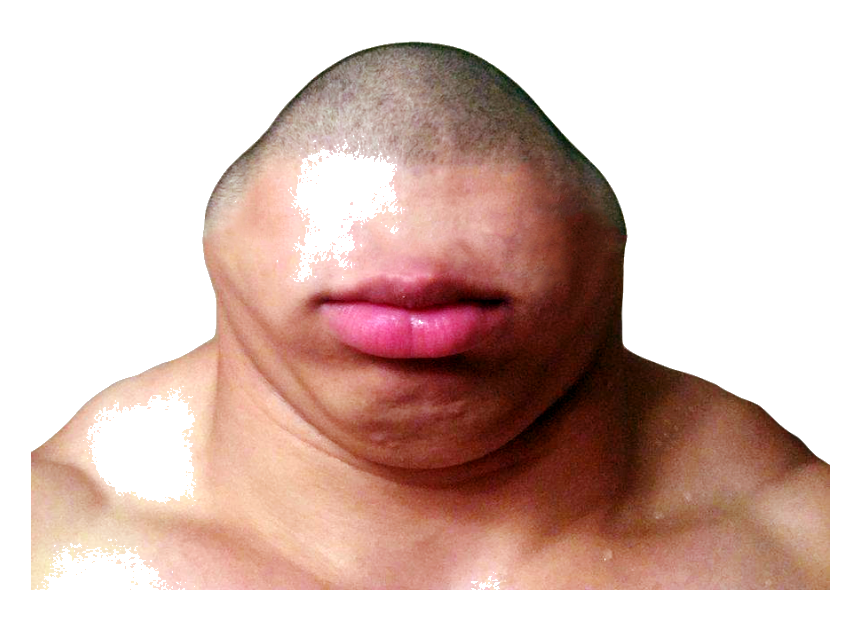
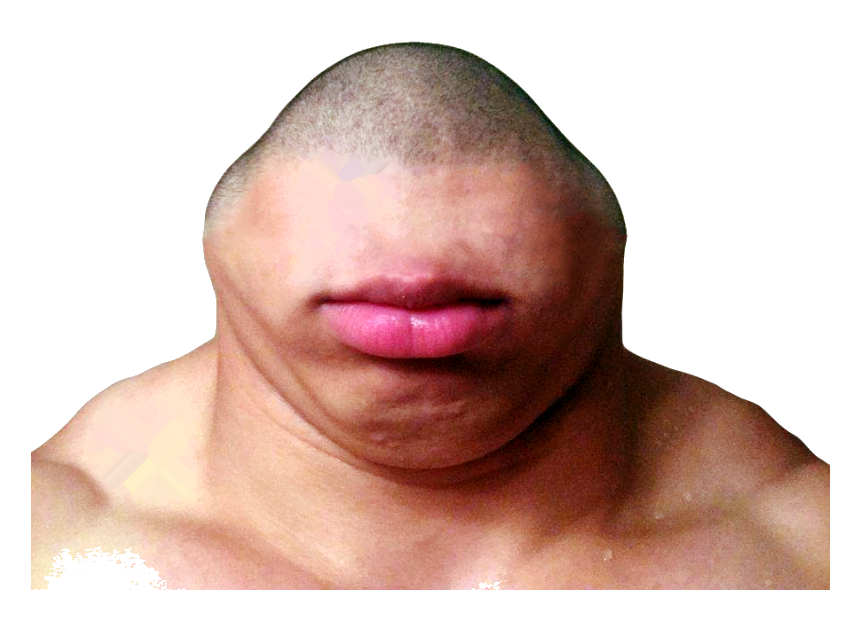
fix(render): fix Option A shorts headroom framing, eliminate combat dead zone, prevent text false positives, and repair corrupted thumbnail assets

Changed region(s): [[0.3326, 0.2108, 0.4837, 0.4517], [0.0907, 0.6022, 0.2419, 0.813]]

diff --git a/Services/WebcamDetector.py b/Services/WebcamDetector.py
@@ -63,10 +63,18 @@ CASCADE_CANDIDATE_PATHS = [
     "/usr/share/opencv/haarcascades/haarcascade_profileface.xml",
 ]
 
+EYE_CASCADE_CANDIDATE_PATHS = [
+    "/usr/share/opencv4/haarcascades/haarcascade_eye.xml",
+    "/usr/share/opencv4/haarcascades/haarcascade_eye_tree_eyeglasses.xml",
+    "/usr/share/opencv/haarcascades/haarcascade_eye.xml",
+    "/usr/share/opencv/haarcascades/haarcascade_eye_tree_eyeglasses.xml",
+]
+
 def has_skin_tones(bgr_crop):
     """
     Check if a candidate crop has realistic human skin tones.
-    Prevents false triggers on text, donation goals, in-game foliage, and HUD graphics.
+    Combines YCrCb and HSV color spaces to strictly eliminate false triggers
+    on text, donation goals, in-game rocks, grass, and HUD graphics.
     """
     if bgr_crop is None or bgr_crop.size == 0:
         return False
@@ -74,18 +82,31 @@ def has_skin_tones(bgr_crop):
         import cv2
         import numpy as np
 
+        # 1. YCrCb skin threshold (standard human skin gamut)
         ycrcb = cv2.cvtColor(bgr_crop, cv2.COLOR_BGR2YCrCb)
-        # Standard human skin gamut in YCrCb
-        lower_skin = np.array([0, 133, 77], dtype=np.uint8)
-        upper_skin = np.array([255, 173, 127], dtype=np.uint8)
-        mask = cv2.inRange(ycrcb, lower_skin, upper_skin)
+        lower_ycrcb = np.array([0, 135, 85], dtype=np.uint8)
+        upper_ycrcb = np.array([255, 175, 135], dtype=np.uint8)
+        mask_ycrcb = cv2.inRange(ycrcb, lower_ycrcb, upper_ycrcb)
+
+        # 2. HSV skin threshold (excludes green grass, cyan spells, pure white text)
+        hsv = cv2.cvtColor(bgr_crop, cv2.COLOR_BGR2HSV)
+        lower_hsv1 = np.array([0, 25, 50], dtype=np.uint8)
+        upper_hsv1 = np.array([25, 210, 255], dtype=np.uint8)
+        mask_hsv1 = cv2.inRange(hsv, lower_hsv1, upper_hsv1)
+        lower_hsv2 = np.array([165, 25, 50], dtype=np.uint8)
+        upper_hsv2 = np.array([180, 210, 255], dtype=np.uint8)
+        mask_hsv2 = cv2.inRange(hsv, lower_hsv2, upper_hsv2)
+        mask_hsv = cv2.bitwise_or(mask_hsv1, mask_hsv2)
+
+        # Combined intersection of both color spaces
+        combined_mask = cv2.bitwise_and(mask_ycrcb, mask_hsv)
 
         total_pixels = bgr_crop.shape[0] * bgr_crop.shape[1]
-        skin_pixels = cv2.countNonZero(mask)
+        skin_pixels = cv2.countNonZero(combined_mask)
         skin_ratio = skin_pixels / float(max(1, total_pixels))
 
-        # Real streamer face crops have at least 12% skin tone pixels
-        return skin_ratio >= 0.12
+        # Real streamer face crops have at least 18% skin tone pixels
+        return skin_ratio >= 0.18
     except Exception:
         return False
 
@@ -115,24 +136,21 @@ def verify_preset_region(img, preset, valid_cascades):
         if crop.size == 0:
             return False
 
-        # 1. Quick skin tone presence check
-        if has_skin_tones(crop):
-            return True
-
-        # 2. Check if any face cascade fires inside preset crop
+        # Require an actual face cascade detection inside the preset region
         gray_crop = cv2.cvtColor(crop, cv2.COLOR_BGR2GRAY)
         for cascade_path in valid_cascades:
             face_cascade = cv2.CascadeClassifier(cascade_path)
             faces = face_cascade.detectMultiScale(
-                gray_crop, scaleFactor=1.1, minNeighbors=3, minSize=(40, 40)
+                gray_crop, scaleFactor=1.1, minNeighbors=4, minSize=(35, 35)
             )
-            if len(faces) > 0:
-                return True
+            for (fx, fy, fw, fh) in faces:
+                face_subcrop = crop[fy:fy+fh, fx:fx+fw]
+                if has_skin_tones(face_subcrop):
+                    return True
 
         return False
     except Exception:
-        # If OpenCV fails, conservatively accept preset as fallback
-        return True
+        return False
 
 def is_in_game_hud(cx, cy, fw, fh, game_kind):
     """
@@ -141,46 +159,48 @@ def is_in_game_hud(cx, cy, fw, fh, game_kind):
     gk = (game_kind or "lol").lower()
 
     if gk == "lol":
-        # 1. League of Legends Top-Left Target/Champion Inspector Frame:
-        # When clicking any champion (e.g. Darius), stats & circle portrait appear at x: 0..380, y: 0..280.
-        # This is NEVER a real webcam unless it's a massive webcam covering that corner.
-        if cx < 380 and cy < 280:
+        # 1. League of Legends Top-Left Target/Champion Inspector Frame & Donation text:
+        if cx < 400 and cy < 280:
             return True
 
-        # 2. Top scoreboard (Game time, kills, dragon icons):
-        if cy < 120:
+        # 2. Top scoreboard / kill scores / timers / donation goals:
+        if cy < 160:
             return True
 
-        # 3. Center combat arena (crosshair / champions fighting):
-        if 540 <= cx <= 1380 and 150 <= cy <= 860:
+        # 3. Center combat arena & TAB scoreboard (covers x: 450..1470, y: 130..880):
+        if 450 <= cx <= 1470 and 130 <= cy <= 880:
             return True
 
         # 4. Bottom ability bar (skills, items, own portrait):
-        if cy > 800 and 400 <= cx <= 1520:
+        if cy > 780 and 380 <= cx <= 1540:
+            return True
+
+        # 5. Bottom-Right minimap:
+        if cx > 1580 and cy > 760:
             return True
 
     elif gk == "valorant":
-        # 1. Top round timer & agent portraits:
-        if cy < 140:
+        # 1. Top round timer, agent portraits & donation bars:
+        if cy < 160:
             return True
 
         # 2. Top-Left minimap:
-        if cx < 360 and cy < 360:
+        if cx < 380 and cy < 380:
             return True
 
-        # 3. Center combat arena & crosshair:
-        if 550 <= cx <= 1370 and 200 <= cy <= 880:
+        # 3. Center combat arena & crosshair / TAB scoreboard:
+        if 480 <= cx <= 1440 and 160 <= cy <= 880:
             return True
 
         # 4. Bottom abilities / ammo / weapons bar:
-        if cy > 880 and 400 <= cx <= 1520:
+        if cy > 840 and 380 <= cx <= 1540:
             return True
 
     else:
         # Generic game exclusions: center arena and extreme edges
-        if 550 <= cx <= 1370 and 200 <= cy <= 880:
+        if 480 <= cx <= 1440 and 140 <= cy <= 880:
             return True
-        if cy < 110:
+        if cy < 140:
             return True
 
     return False
@@ -190,16 +210,22 @@ def detect_facecam(frame_path, streamer_name="", game_kind="lol"):
 
     # Resolve OpenCV cascades if available
     valid_cascades = []
+    eye_cascades = []
     cv2_module = None
     try:
         import cv2
         cv2_module = cv2
         valid_cascades = [p for p in CASCADE_CANDIDATE_PATHS if os.path.exists(p)]
+        eye_cascades = [p for p in EYE_CASCADE_CANDIDATE_PATHS if os.path.exists(p)]
         if hasattr(cv2, 'data') and hasattr(cv2.data, 'haarcascades'):
             for std_name in ["haarcascade_frontalface_alt2.xml", "haarcascade_frontalface_alt.xml", "haarcascade_frontalface_default.xml", "haarcascade_profileface.xml"]:
                 std_path = cv2.data.haarcascades + std_name
                 if os.path.exists(std_path) and std_path not in valid_cascades:
                     valid_cascades.append(std_path)
+            for std_eye in ["haarcascade_eye.xml", "haarcascade_eye_tree_eyeglasses.xml"]:
+                eye_path = cv2.data.haarcascades + std_eye
+                if os.path.exists(eye_path) and eye_path not in eye_cascades:
+                    eye_cascades.append(eye_path)
     except Exception:
         pass
 
@@ -214,8 +240,7 @@ def detect_facecam(frame_path, streamer_name="", game_kind="lol"):
                     if img is not None:
                         if verify_preset_region(img, coords, valid_cascades):
                             return coords
-                        # Preset ROI has no face/skin (streamer playing with no cam or moved it)
-                        # Do NOT blindly return preset! Continue to full frame search.
+                        # Preset ROI has no verified face -> continue to full frame search
                         break
                 except Exception:
                     return coords
@@ -235,9 +260,9 @@ def detect_facecam(frame_path, streamer_name="", game_kind="lol"):
 
                 for cascade_path in valid_cascades:
                     face_cascade = cv2.CascadeClassifier(cascade_path)
-                    # minNeighbors=4 and minSize=(50, 50) prevents false positives on text and icons
+                    # minNeighbors=6 and minSize=(55, 55) strictly prevents false positives on text and icons
                     faces = face_cascade.detectMultiScale(
-                        gray, scaleFactor=1.08, minNeighbors=4, minSize=(50, 50)
+                        gray, scaleFactor=1.08, minNeighbors=6, minSize=(55, 55)
                     )
 
                     for (fx, fy, fw, fh) in faces:
@@ -250,7 +275,13 @@ def detect_facecam(frame_path, streamer_name="", game_kind="lol"):
                         cx = real_fx + real_fw // 2
                         cy = real_fy + real_fh // 2
 
-                        # Filter out in-game HUDs (champion stats box, abilities, center arena)
+                        # Face bounding box aspect ratio check: must be reasonably proportional (0.75 <= h/w <= 1.45)
+                        # Text lines and banners have extreme aspect ratios and are filtered out immediately
+                        aspect_ratio = real_fh / float(max(1, real_fw))
+                        if aspect_ratio < 0.75 or aspect_ratio > 1.45:
+                            continue
+
+                        # Filter out in-game HUDs, scoreboard, minimap, and central combat arena
                         if is_in_game_hud(cx, cy, real_fw, real_fh, game_kind):
                             continue
 
@@ -261,14 +292,13 @@ def detect_facecam(frame_path, streamer_name="", game_kind="lol"):
                         crop_x2 = max(crop_x1 + 1, min(w, fx + fw))
                         face_crop = img[crop_y1:crop_y2, crop_x1:crop_x2]
 
-                        # Verify human skin tones (eliminates donation goals, spell particles, rocks)
+                        # Verify human skin tones in dual YCrCb + HSV space
                         if not has_skin_tones(face_crop):
                             continue
 
                         # Calculate score based on webcam quadrant preference & face size
-                        # Streamer cameras are commonly in corners or side panels
                         score = real_fw * real_fh
-                        if cx >= 1350 and cy >= 650:  # Bottom right (very common in LoL)
+                        if cx >= 1350 and cy >= 650:  # Bottom right (most common in LoL)
                             score *= 1.4
                         elif cx <= 450 and cy >= 650:  # Bottom left
                             score *= 1.3
@@ -290,11 +320,14 @@ def detect_facecam(frame_path, streamer_name="", game_kind="lol"):
                     bfx, bfy, bfw, bfh = best["fx"], best["fy"], best["fw"], best["fh"]
                     bcx, bcy = best["cx"], best["cy"]
 
-                    cam_w = 440
-                    cam_h = 265  # 16:9 standard Short facecam crop
+                    # Exact 1080:680 ratio (1.5862) to prevent any aspect-ratio stretching or cropping in FFmpeg
+                    cam_w = 460
+                    cam_h = 290
 
-                    # Position head naturally in upper 35% of camera window
-                    cam_y = max(0, min(1080 - cam_h, bfy - int(bfh * 0.35)))
+                    # Natural head framing with generous headroom (75% of face height above eyebrows)
+                    # Prevents head, hair, headphones or caps from being truncated
+                    headroom = int(bfh * 0.75)
+                    cam_y = max(0, min(1080 - cam_h, bfy - headroom))
                     cam_x = max(0, min(1920 - cam_w, bcx - cam_w // 2))
 
                     return {
@@ -316,3 +349,4 @@ if __name__ == "__main__":
     game_arg = sys.argv[3] if len(sys.argv) > 3 else "lol"
     result = detect_facecam(frame_arg, streamer_arg, game_arg)
     print(json.dumps(result))
+

diff --git a/Services/ShortsRenderService.cs b/Services/ShortsRenderService.cs
@@ -270,8 +270,8 @@ namespace YoutubeGenerator.Services
                 filterComplex =
                     $"[0:v]scale=1920:1080[norm];" +
                     $"[norm]split=2[n1][n2];" +
-                    $"[n1]crop={coords.W}:{coords.H}:{coords.X}:{coords.Y},scale=1080:680:force_original_aspect_ratio=increase,crop=1080:680[cam];" +
-                    $"[n2]crop=1080:1080:420:0,scale=1080:1240:force_original_aspect_ratio=increase,crop=1080:1240[game];" +
+                    $"[n1]crop={coords.W}:{coords.H}:{coords.X}:{coords.Y},scale=1080:680:force_original_aspect_ratio=increase,crop=1080:680:(in_w-1080)/2:0[cam];" +
+                    $"[n2]crop=1080:960:420:90,scale=1080:1240:force_original_aspect_ratio=increase,crop=1080:1240[game];" +
                     $"[cam][game]vstack=inputs=2,drawbox=y=676:color={dividerColor}:t=8[v1];" +
                     $"[1:v]scale=680:-1[sub];" +
                     $"[v1][sub]overlay=(W-w)/2:1500:enable='between(t,{tStartStr},{tEndStr})'[v]";
@@ -282,8 +282,8 @@ namespace YoutubeGenerator.Services
                 filterComplex =
                     $"[0:v]scale=1920:1080[norm];" +
                     $"[norm]split=2[n1][n2];" +
-                    $"[n1]crop={coords.W}:{coords.H}:{coords.X}:{coords.Y},scale=1080:680:force_original_aspect_ratio=increase,crop=1080:680[cam];" +
-                    $"[n2]crop=1080:1080:420:0,scale=1080:1240:force_original_aspect_ratio=increase,crop=1080:1240[game];" +
+                    $"[n1]crop={coords.W}:{coords.H}:{coords.X}:{coords.Y},scale=1080:680:force_original_aspect_ratio=increase,crop=1080:680:(in_w-1080)/2:0[cam];" +
+                    $"[n2]crop=1080:960:420:90,scale=1080:1240:force_original_aspect_ratio=increase,crop=1080:1240[game];" +
                     $"[cam][game]vstack=inputs=2,drawbox=y=676:color={dividerColor}:t=8[v]";
             }
 

diff --git a/Services/ThumbnailService.cs b/Services/ThumbnailService.cs
@@ -340,8 +340,10 @@ namespace YoutubeGenerator.Services
             // 2. Creator cutout on bottom-right (scaled cleanly to height 490, covers corner webcam)
             if (creatorIndex.HasValue)
             {
+                // Subdue any existing in-game webcam on bottom-left to prevent confusing dual-webcam collision
+                filter.Add($"{currentLayer}drawbox=x=0:y=390:w=350:h=330:color=black@0.60:t=fill[bg_vignette]");
                 filter.Add($"[{creatorIndex.Value}:v]scale=-1:490[creator]");
-                filter.Add($"{currentLayer}[creator]overlay=x=W-w:y=H-h[layer_creator]");
+                filter.Add($"[bg_vignette][creator]overlay=x=W-w:y=H-h[layer_creator]");
                 currentLayer = "[layer_creator]";
             }
 

diff --git a/scripts/update_channel_videos.py b/scripts/update_channel_videos.py
@@ -185,7 +185,8 @@ for cfg in configs:
         out_local = f"/tmp/thumb_{vid}.jpg"
 
         filter_graph = (
-            "[0:v]scale=1280:720:force_original_aspect_ratio=increase,crop=1280:720,eq=contrast=1.15:saturation=1.25[bg];"
+            "[0:v]scale=1280:720:force_original_aspect_ratio=increase,crop=1280:720,eq=contrast=1.15:saturation=1.25,"
+            "drawbox=x=0:y=390:w=350:h=330:color=black@0.60:t=fill[bg];"
             f"[1:v]scale=-1:490[creator];"
             f"[bg][creator]overlay=x=W-w:y=H-h[layer];"
             f"[layer]drawtext=fontfile='{font_path}':text='{hook}':fontcolor=0xFFE600:fontsize=96:borderw=10:bordercolor=black:x=60:y=40[out]"
